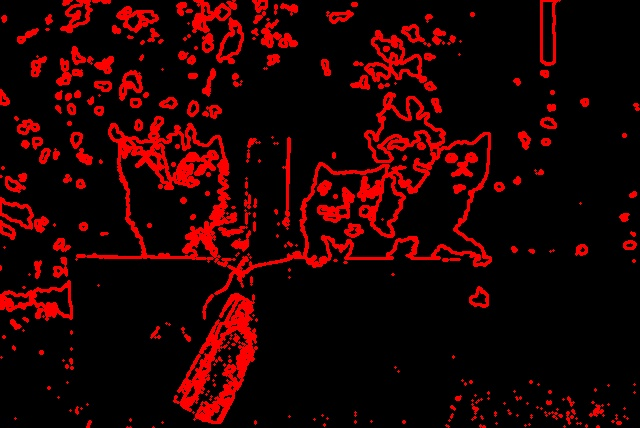
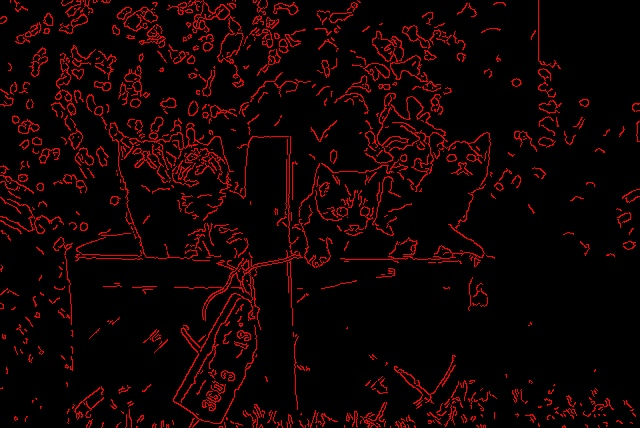
Contour

diff --git a/Contours.py b/Contours.py
@@ -25,7 +25,7 @@ cv.imshow("Canny Edges", canny)
 cv.imwrite('CannyEdges.jpg', canny)
 # contour detection
 # Method 1: Make the image blur and then find the edges with canny
-# contours, hierarchies = cv.findContours(canny, cv.RETR_LIST, cv.CHAIN_APPROX_NONE)
+contours, hierarchies = cv.findContours(canny, cv.RETR_LIST, cv.CHAIN_APPROX_NONE)
 # print(f'{len(contours)} contours')
 
 '''
@@ -52,7 +52,7 @@ cv.CHAIN_APPROX_NONE: IT is the countour approximation methods. CHAIN_APPROX_NON
 CHAIN_APPROX_SIMPLE: It compresses all the return contours in the simple ones. For example: instead of returning all contours of a line, it just returns two end points.
 #of contours is the lenght of the countours 
 '''
-contours, hierarchies = cv.findContours(thresh, cv.RETR_LIST, cv.CHAIN_APPROX_NONE)
+# contours, hierarchies = cv.findContours(thresh, cv.RETR_LIST, cv.CHAIN_APPROX_NONE)
 print(f'{len(contours)} contours')
 
 '''
@@ -60,7 +60,7 @@ Visualize the contours:
 drow the found contours on the blank image
 '''
 blank = np.zeros(img.shape, dtype='uint8')
-cv.drawContours(blank, contours, -1, (0, 0, 255), 2)
+cv.drawContours(blank, contours, -1, (0, 0, 255), 1)
 cv.imshow("Contours Drown", blank)
 cv.imwrite('Contours.jpg', blank)
 cv.waitKey(0)
